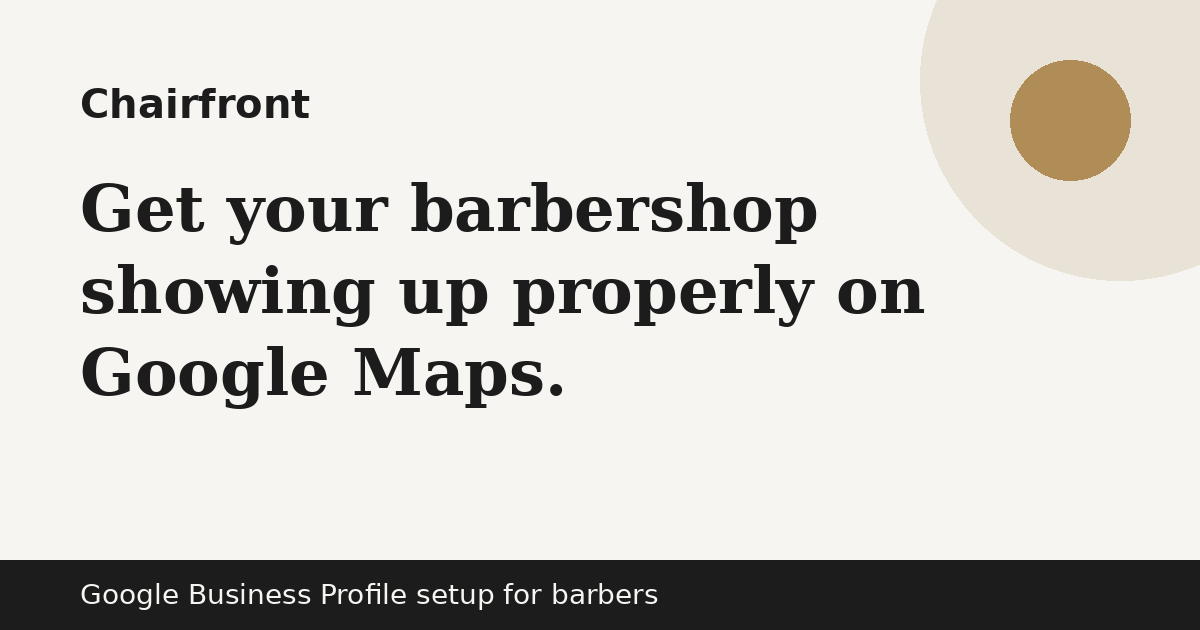
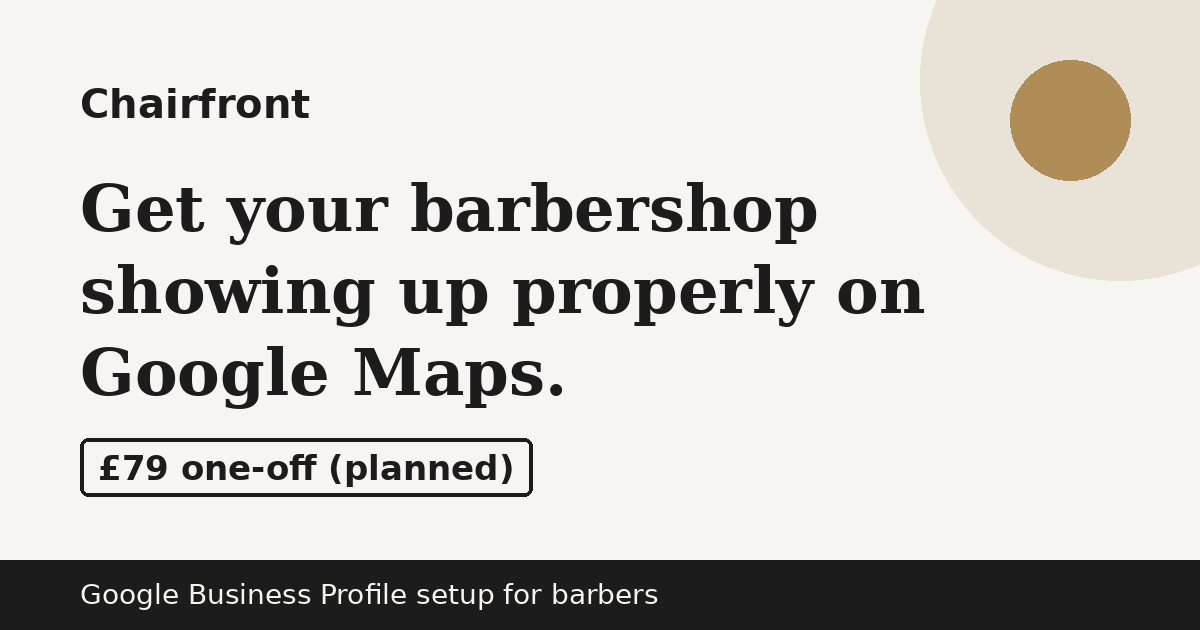
Publish site 2026-10-21 08:26 BST

Changed region(s): [[0.0617, 0.6937, 0.4625, 0.8143]]

diff --git a/index.html b/index.html
@@ -3,7 +3,7 @@
 <head>
 <meta charset="utf-8">
 <meta name="viewport" content="width=device-width, initial-scale=1">
-<meta http-equiv="Content-Security-Policy" content="default-src 'self'; img-src 'self' data: https://localreplyloop.goatcounter.com; style-src 'self'; script-src 'self'; font-src 'self'; connect-src 'self' https://formsubmit.co; form-action 'self'; base-uri 'self'; object-src 'none'">
+<meta http-equiv="Content-Security-Policy" content="default-src 'self'; img-src 'self' data: https://localreplyloop.goatcounter.com; style-src 'self'; script-src 'self'; font-src 'self'; connect-src 'self'; form-action 'self'; base-uri 'self'; object-src 'none'">
 <meta name="referrer" content="strict-origin-when-cross-origin">
 <title>Chairfront: Get your barbershop showing up properly on Google Maps</title>
 <meta name="description" content="A done-for-you Google Business Profile setup: categories, opening hours, services list, photos you supply, and a plain guide to asking customers for.">
@@ -21,21 +21,14 @@
 </head>
 <body>
 <a class="skip" href="#main">Skip to content</a>
-<header><div class="wrap top"><a class="brand" href="./"><svg viewBox="0 0 64 64" aria-hidden="true" width="34" height="34"><circle cx="32" cy="32" r="32" fill="#1C1C1C"/><text x="32" y="43" text-anchor="middle" font-family="Georgia, serif" font-weight="700" font-size="30" fill="#F7F5F2">C</text><circle cx="50" cy="50" r="6" fill="#B08D57"/></svg>Chairfront</a><nav aria-label="Primary"><a href="#how">How it works</a><a href="#faq">Questions</a><a href="#contact">Contact</a></nav></div></header><section class="hero"><div class="wrap"><div class="inner"><div><span class="draft">Draft: not yet available. Enquiries welcome.</span><br><span class="eyebrow">Service · draft offer · Google Business Profile setup for barbers</span><h1>Get your barbershop showing up properly on Google Maps.</h1><p class="lede">Chairfront sets up or tidies your Google Business Profile: the right categories, accurate hours, a services list with prices, and your photos. You keep full ownership of the profile.</p><div class="ctas"><a class="btn" href="#contact" data-cta="hero">Make an enquiry</a><a class="btn ghost" href="#faq" data-cta="hero-secondary">Questions</a></div></div><div class="art"><svg viewBox="0 0 400 400" role="img" aria-label="Decorative pattern" class="motif" preserveAspectRatio="xMidYMid slice"><rect x="0" y="160" width="30" height="200" rx="15" fill="#F7F5F2"/><rect x="46" y="160" width="30" height="260" rx="15" fill="#1C1C1C"/><rect x="92" y="100" width="30" height="220" rx="15" fill="#B08D57"/><rect x="138" y="70" width="30" height="200" rx="15" fill="#1C1C1C"/><rect x="184" y="40" width="30" height="200" rx="15" fill="#F7F5F2"/><rect x="230" y="100" width="30" height="260" rx="15" fill="#1C1C1C"/><rect x="276" y="70" width="30" height="220" rx="15" fill="#B08D57"/><rect x="322" y="130" width="30" height="260" rx="15" fill="#1C1C1C"/><rect x="368" y="70" width="30" height="220" rx="15" fill="#F7F5F2"/></svg></div></div></div></section>
+<header><div class="wrap top"><a class="brand" href="./"><svg viewBox="0 0 64 64" aria-hidden="true" width="34" height="34"><circle cx="32" cy="32" r="32" fill="#1C1C1C"/><text x="32" y="43" text-anchor="middle" font-family="Georgia, serif" font-weight="700" font-size="30" fill="#F7F5F2">C</text><circle cx="50" cy="50" r="6" fill="#B08D57"/></svg>Chairfront</a><nav aria-label="Primary"><a href="#how">How it works</a><a href="#faq">Questions</a><a href="#contact">Contact</a></nav></div></header>
 <main id="main">
+<section class="hero"><div class="wrap"><div class="inner"><div><span class="draft">Draft: not yet available. Enquiries welcome.</span><br><span class="eyebrow">Service · draft offer · Google Business Profile setup for barbers</span><h1>Get your barbershop showing up properly on Google Maps.</h1><p class="lede">Chairfront sets up or tidies your Google Business Profile: the right categories, accurate hours, a services list with prices, and your photos. You keep full ownership of the profile.</p><div class="ctas"><a class="btn" href="#contact" data-cta="hero">Make an enquiry</a><a class="btn ghost" href="#faq" data-cta="hero-secondary">Questions</a></div></div><figure class="art"><svg viewBox="0 0 400 400" aria-hidden="true" focusable="false" class="motif"><rect x="70" y="70" width="70" height="260" rx="35" fill="#1C1C1C"/><rect x="78" y="90" width="54" height="220" rx="27" fill="#F7F5F2"/><path d="M78 120 l54 -30 v16 l-54 30z" fill="#B08D57"/><path d="M78 170 l54 -30 v16 l-54 30z" fill="#B08D57"/><path d="M78 220 l54 -30 v16 l-54 30z" fill="#B08D57"/><path d="M78 270 l54 -30 v16 l-54 30z" fill="#B08D57"/><rect x="200" y="60" width="140" height="280" rx="22" fill="#1C1C1C"/><rect x="212" y="84" width="116" height="220" rx="8" fill="#F7F5F2"/><path d="M270 120 a30 30 0 0 1 30 30 c0 26 -30 60 -30 60 s-30 -34 -30 -60 a30 30 0 0 1 30 -30z" fill="#B08D57"/><circle cx="270" cy="150" r="11" fill="#F7F5F2"/></svg><figcaption class="fine">Illustrative</figcaption></figure></div></div></section>
 <section class="tint" id="how"><div class="wrap"><span class="eyebrow">How it works</span><h2>A done-for-you Google Business Profile setup: categories, opening hours, services list, photos you supply, and a plain guide to asking customers for reviews properly.</h2><div class="steps"><div class="step"><h3>Tell us about the shop</h3><p>Services, prices, hours and photos.</p></div><div class="step"><h3>We set it up with you</h3><p>You own the profile; we work with access you give us.</p></div><div class="step"><h3>Hand-over guide</h3><p>How to keep it current and ask for reviews fairly.</p></div></div></div></section>
 <section><div class="wrap"><span class="eyebrow">Who it is for</span><h2>For independent barbers and small barbershops.</h2><div class="points"><div class="point"><h3>You own it</h3><p>The profile stays in your Google account.</p></div><div class="point"><h3>No fake reviews</h3><p>We never post, buy or incentivise reviews.</p></div><div class="point"><h3>No ranking promises</h3><p>Nobody can guarantee a position on Google.</p></div></div></div></section>
 <section class="tint" id="price"><div class="wrap"><span class="eyebrow">Planned price</span><div class="pricebox"><p class="price">£79 one-off (planned)</p><p>This is a draft offer and is not taking orders yet. Nothing can be bought on this website.</p></div></div></section>
-<section id="faq"><div class="wrap"><span class="eyebrow">Questions</span><h2>Common questions</h2><details><summary>Is this available now?</summary><p>It&#x27;s a draft offer. Send an enquiry and we&#x27;ll reply about timing.</p></details><details><summary>Will I rank first?</summary><p>No one can promise that. We make the profile complete and accurate.</p></details><details><summary>Do you need my password?</summary><p>No. You add us as a manager and remove us when done.</p></details><p class="fine" style="margin-top:18px">Chairfront is not affiliated with Google. We make no promises about search rankings.</p></div></section>
-<section class="tint" id="contact"><div class="wrap contact-grid"><div><span class="eyebrow">Contact</span><h2>Make an enquiry</h2><p>Chairfront is new and run by one person. Every message is read and answered by email, usually within two working days.</p><p>Email: <a href="mailto:localreply+chairfront@agentmail.to">localreply+chairfront@agentmail.to</a></p></div><form class="form" data-contact data-formsubmit="localreply+chairfront@agentmail.to" data-email="localreply+chairfront@agentmail.to" data-subject="Chairfront enquiry" novalidate>
-<div><label for="f-name">Your name</label><input id="f-name" name="name" autocomplete="name" required></div>
-<div><label for="f-email">Email</label><input id="f-email" name="email" type="email" autocomplete="email" required></div>
-<div><label for="f-plan">About</label><select id="f-plan" name="plan"><option value="New profile">New profile</option><option value="Tidy an existing profile">Tidy an existing profile</option><option value="A question">A question</option></select></div>
-<div><label for="f-message">Message</label><textarea id="f-message" name="message"></textarea></div>
-<p class="hint">Your message goes to our inbox through FormSubmit (formsubmit.co), our form-delivery provider. If that fails, your own email app opens instead. See our <a href="privacy.html">privacy notice</a>.</p>
-<button class="btn" type="submit">Make an enquiry</button>
-<p class="form-status" role="status" aria-live="polite"></p>
-</form></div></section>
+<section id="faq"><div class="wrap"><span class="eyebrow">Questions</span><h2>Common questions</h2><details><summary>Is this available now?</summary><p>It&#x27;s a draft offer. Enquiries are received, but we can’t promise a reply or a timeframe yet.</p></details><details><summary>Will I rank first?</summary><p>No one can promise that. We make the profile complete and accurate.</p></details><details><summary>Do you need my password?</summary><p>No. You add us as a manager and remove us when done.</p></details><p class="fine" style="margin-top:18px">Chairfront is not affiliated with Google. We make no promises about search rankings.</p></div></section>
+<section class="tint" id="contact"><div class="wrap contact-grid"><div><span class="eyebrow">Contact</span><h2>Make an enquiry</h2><p>Chairfront is new and run by one person. Messages go to our inbox. We can’t promise a reply or a timeframe yet.</p><p>Email: <a href="mailto:localreply+chairfront@agentmail.to">localreply+chairfront@agentmail.to</a></p></div><div class="form contact-mail"><p><a class="btn" href="mailto:localreply+chairfront@agentmail.to?subject=%5BChairfront%5D%20Enquiry" data-cta="enquire">Email Chairfront</a></p><p class="hint">This opens your own email app. Nothing is sent through this website. See our <a href="privacy.html">privacy notice</a>.</p></div></div></section>
 </main><footer><div class="wrap"><p>Operated by a UK sole trader trading as Chairfront. Contact: localreply+chairfront@agentmail.to. Postal address available on written request.</p>
 <p><a href="privacy.html">Privacy</a><a href="terms.html">Terms</a><a href="./#contact">Contact</a></p>
 <p class="fine">Chairfront is not affiliated with Google. We make no promises about search rankings.</p></div></footer>

diff --git a/privacy.html b/privacy.html
@@ -3,7 +3,7 @@
 <head>
 <meta charset="utf-8">
 <meta name="viewport" content="width=device-width, initial-scale=1">
-<meta http-equiv="Content-Security-Policy" content="default-src 'self'; img-src 'self' data: https://localreplyloop.goatcounter.com; style-src 'self'; script-src 'self'; font-src 'self'; connect-src 'self' https://formsubmit.co; form-action 'self'; base-uri 'self'; object-src 'none'">
+<meta http-equiv="Content-Security-Policy" content="default-src 'self'; img-src 'self' data: https://localreplyloop.goatcounter.com; style-src 'self'; script-src 'self'; font-src 'self'; connect-src 'self'; form-action 'self'; base-uri 'self'; object-src 'none'">
 <meta name="referrer" content="strict-origin-when-cross-origin">
 <title>Privacy notice | Chairfront</title>
 <meta name="description" content="Privacy notice for Chairfront.">
@@ -21,13 +21,13 @@
 </head>
 <body>
 <a class="skip" href="#main">Skip to content</a>
-<header><div class="wrap top"><a class="brand" href="./"><svg viewBox="0 0 64 64" aria-hidden="true" width="34" height="34"><circle cx="32" cy="32" r="32" fill="#1C1C1C"/><text x="32" y="43" text-anchor="middle" font-family="Georgia, serif" font-weight="700" font-size="30" fill="#F7F5F2">C</text><circle cx="50" cy="50" r="6" fill="#B08D57"/></svg>Chairfront</a><nav aria-label="Primary"><a href="#how">How it works</a><a href="#faq">Questions</a><a href="#contact">Contact</a></nav></div></header><main id="main"><section><div class="wrap legal"><h1>Privacy notice</h1><p class="fine">Last updated 19 October 2026</p>
+<header><div class="wrap top"><a class="brand" href="./"><svg viewBox="0 0 64 64" aria-hidden="true" width="34" height="34"><circle cx="32" cy="32" r="32" fill="#1C1C1C"/><text x="32" y="43" text-anchor="middle" font-family="Georgia, serif" font-weight="700" font-size="30" fill="#F7F5F2">C</text><circle cx="50" cy="50" r="6" fill="#B08D57"/></svg>Chairfront</a><nav aria-label="Primary"><a href="#how">How it works</a><a href="#faq">Questions</a><a href="#contact">Contact</a></nav></div></header><main id="main"><section><div class="wrap legal"><h1>Privacy notice</h1><p class="fine">Last updated 20 October 2026</p>
 <p><span>Operated by a UK sole trader trading as Chairfront. Contact: localreply+chairfront@agentmail.to. Postal address available on written request.</span> We are the controller for the personal data described here. For anything in this notice, email <a href="mailto:localreply+chairfront@agentmail.to">localreply+chairfront@agentmail.to</a> with “Chairfront” in the subject line.</p>
-<h2>What we collect</h2><p>If you use the form or email us, we receive your name, email address, anything you write in your message and, if you give it, your postcode or town. We use it only to reply to you and, if you ask for it, to deal with your enquiry.</p>
+<h2>What we collect</h2><p>If you email us, we receive your name, email address, anything you write in your message and, if you give it, your postcode or town. We use it only to reply to you and, if you ask for it, to deal with your enquiry.</p>
 <h2>Lawful basis</h2><p>Replying to an enquiry you send us is in our legitimate interests, or steps taken at your request before any agreement (UK GDPR Article 6(1)(f) and 6(1)(b)).</p>
-<h2>Who processes it for us</h2><p>FormSubmit (formsubmit.co) delivers form messages to our inbox. AgentMail (agentmail.to) hosts the inbox. GitHub Pages hosts this website and may log technical data such as IP addresses for security. Some of these providers process data outside the UK under their own safeguards.</p>
+<h2>Who processes it for us</h2><p>AgentMail (agentmail.to) hosts our inbox. GitHub Pages hosts this website and may log technical data such as IP addresses for security. Some of these providers process data outside the UK under their own safeguards.</p>
 <h2>Cookies and analytics</h2><p>We set no cookies. We count page views with GoatCounter, which records the page, referrer and screen size but no cookies and no personal profile. It does not run if your browser sends Do Not Track or Global Privacy Control.</p>
-<h2>How long we keep it</h2><p>We keep enquiry emails for up to 12 months after our last contact, unless you become a customer, in which case we keep records as the law requires.</p>
+<h2>How long we keep it</h2><p>We delete enquiry and order data 30 days after our last contact or after delivery. We keep only the basic order record that tax law requires.</p>
 <h2>Your rights</h2><p>You can ask for a copy of your data, ask us to correct or delete it, or object to how we use it, by emailing <a href="mailto:localreply+chairfront@agentmail.to">localreply+chairfront@agentmail.to</a>. You can complain to the Information Commissioner's Office (ico.org.uk).</p></div></section></main><footer><div class="wrap"><p>Operated by a UK sole trader trading as Chairfront. Contact: localreply+chairfront@agentmail.to. Postal address available on written request.</p>
 <p><a href="privacy.html">Privacy</a><a href="terms.html">Terms</a><a href="./#contact">Contact</a></p>
 <p class="fine">Chairfront is not affiliated with Google. We make no promises about search rankings.</p></div></footer>

diff --git a/assets/site.css b/assets/site.css
@@ -1,6 +1,6 @@
 @font-face{font-family:'Source Serif 4';font-weight:600;font-style:normal;font-display:swap;src:url(fonts/source-serif-4-latin-600-normal.woff2) format('woff2')}
 @font-face{font-family:'Source Serif 4';font-weight:700;font-style:normal;font-display:swap;src:url(fonts/source-serif-4-latin-700-normal.woff2) format('woff2')}
-:root{--ink:#1C1C1C;--paper:#F7F5F2;--acc:#B08D57;--acc-text:#81663C;--on-acc:#1C1C1C;--soft:#E9E2D6;--on-ink:#F7F5F2;--r:4px;--br:999px;--head:'Source Serif 4', Georgia, serif;--body:Georgia, serif}
+:root{--ink:#1C1C1C;--paper:#F7F5F2;--acc:#B08D57;--acc-text:#6A5532;--on-acc:#1C1C1C;--acc-btn:#B08D57;--soft:#E9E2D6;--on-ink:#F7F5F2;--r:4px;--br:999px;--head:'Source Serif 4', Georgia, serif;--body:Georgia, serif}
 *,*::before,*::after{box-sizing:border-box}html{scroll-behavior:smooth}@media (prefers-reduced-motion:reduce){html{scroll-behavior:auto}*{transition:none!important}}
 body{margin:0;font-family:var(--body);color:var(--ink);background:var(--paper);line-height:1.6;font-size:17px;-webkit-font-smoothing:antialiased}
 h1,h2,h3{font-family:var(--head);line-height:1.15;margin:0 0 .5em;letter-spacing:-.01em}h1{font-size:clamp(2.1rem,5vw,3.6rem)}h2{font-size:clamp(1.5rem,3vw,2.2rem)}h3{font-size:1.15rem}
@@ -9,11 +9,11 @@ p{margin:0 0 1em}a{color:var(--ink);text-decoration-color:var(--acc);text-underl
 :focus-visible{outline:3px solid var(--acc);outline-offset:2px}
 .top{display:flex;align-items:center;justify-content:space-between;padding:18px 0;gap:16px}.brand{display:flex;align-items:center;gap:10px;font-family:var(--head);font-weight:700;font-size:1.25rem;text-decoration:none}
 .top nav a{margin-left:18px;font-size:.95rem;text-decoration:none}.top nav a:hover{text-decoration:underline}
-.btn{display:inline-block;background:var(--acc);color:var(--on-acc);padding:13px 22px;border-radius:var(--br);font-weight:600;text-decoration:none;border:2px solid var(--acc);cursor:pointer;font:inherit;font-weight:600}
-.btn:hover{filter:brightness(.94)}.btn.ghost{background:transparent;color:var(--ink);border-color:var(--ink)}
+.btn{display:inline-block;background:var(--acc-btn);color:var(--on-acc);padding:13px 22px;border-radius:var(--br);font-weight:600;text-decoration:none;border:2px solid var(--acc-btn);cursor:pointer;font:inherit;font-weight:600}
+.btn:hover{filter:none;box-shadow:inset 0 0 0 2px currentColor}.btn.ghost{background:transparent;color:var(--ink);border-color:var(--ink)}
 .eyebrow{display:inline-block;font-size:.8rem;letter-spacing:.12em;text-transform:uppercase;font-weight:600;color:var(--acc-text);margin-bottom:12px}
 .hero{padding:48px 0 64px}.hero .lede{font-size:1.15rem;max-width:40em}.ctas{display:flex;gap:12px;flex-wrap:wrap;margin-top:22px}
-.motif{width:100%;height:auto;max-width:420px;display:block}
+.motif{width:100%;height:auto;max-width:420px;display:block}.art{margin:0}
 .draft{display:inline-block;background:var(--soft);border:1px dashed var(--ink);padding:3px 10px;border-radius:999px;font-size:.82rem;font-weight:600;margin-bottom:14px}
 section{padding:56px 0}.tint{background:var(--soft)}
 .steps{display:grid;grid-template-columns:repeat(auto-fit,minmax(220px,1fr));gap:22px;counter-reset:s}
@@ -24,8 +24,8 @@ section{padding:56px 0}.tint{background:var(--soft)}
 details{border-bottom:1px solid color-mix(in srgb,var(--ink) 18%,transparent);padding:14px 0}summary{cursor:pointer;font-weight:600}details p{margin-top:10px}
 .form{display:grid;gap:14px;max-width:620px}.form label{font-weight:600;font-size:.95rem;display:block;margin-bottom:4px}
 .form input,.form textarea,.form select{width:100%;padding:12px;border:1.5px solid color-mix(in srgb,var(--ink) 40%,transparent);border-radius:calc(var(--r)/2);font:inherit;background:#fff;color:#111}
-.form textarea{min-height:120px}.hint,.fine{font-size:.88rem;opacity:.85}.form-status{font-weight:600}
-.contact-grid{display:grid;grid-template-columns:1fr 1.2fr;gap:40px}@media(max-width:800px){.contact-grid{grid-template-columns:1fr}.top nav{display:none}}
+.form textarea{min-height:120px}.hint,.fine{font-size:.88rem}.form-status{font-weight:600}
+.contact-grid{display:grid;grid-template-columns:1fr 1.2fr;gap:40px}@media(max-width:800px){.contact-grid{grid-template-columns:1fr}.top nav a:not([href="#contact"]){display:none}.top nav a{margin-left:0;padding:10px 0;font-weight:600}}
 footer{padding:36px 0 48px;font-size:.9rem;border-top:1px solid color-mix(in srgb,var(--ink) 15%,transparent)}footer a{margin-right:14px}
 .tool{background:var(--paper);border:2px solid var(--ink);border-radius:var(--r);padding:26px;max-width:640px}.tool .row{display:grid;grid-template-columns:1fr 140px;gap:12px;align-items:center;margin-bottom:10px}
 .tool input[type=number]{padding:10px;border:1.5px solid var(--ink);border-radius:8px;font:inherit;width:100%}.result{margin-top:16px;padding:16px;background:var(--soft);border-radius:calc(var(--r)/2);min-height:3em}

diff --git a/_shared/kit.js b/_shared/kit.js
@@ -69,24 +69,8 @@
     form.addEventListener("submit", function (e) {
       e.preventDefault();
       if (!form.reportValidity()) return;
-      // 2026-10-14: if data-formsubmit is set, deliver via FormSubmit.co straight to the brand inbox; mailto stays as fallback.
-      var fsTok = form.getAttribute("data-formsubmit");
-      if (fsTok && !form.__fsFallback && window.fetch) {
-        var fd = new FormData(form), payload = {}, st = form.querySelector("[role=status]");
-        fd.forEach(function (v, k) { if (k !== "consent") payload[k] = String(v); });
-        payload._subject = (form.getAttribute("data-subject") || "Enquiry") + (payload.business ? " — " + payload.business : "");
-        if (payload.email) payload._replyto = payload.email;
-        payload._captcha = "false"; payload._template = "table";
-        fetch("https://formsubmit.co/ajax/" + fsTok, { method: "POST", headers: { "Content-Type": "application/json", "Accept": "application/json" }, body: JSON.stringify(payload) })
-          .then(function (r) { return r.json(); })
-          .then(function (j) {
-            if (String(j.success) !== "true") throw new Error("fs");
-            if (st) { st.textContent = "Thanks" + (payload.name ? ", " + payload.name.trim().split(" ")[0] : "") + " — your message has been sent. We reply by email."; st.classList.add("is-visible"); }
-            track("contact_sent", { plan: payload.plan || null }); form.reset();
-          })
-          .catch(function () { form.__fsFallback = true; if (st) { st.textContent = "Sending didn't work — opening your email app instead."; st.classList.add("is-visible"); } form.requestSubmit ? form.requestSubmit() : form.dispatchEvent(new Event("submit", { cancelable: true })); });
-        return;
-      }
+      // The form only composes an email
+      // in the visitor's own mail app; nothing is sent through any third-party form processor.
       var to = form.getAttribute("data-email") || cfg.contactEmail;
       var data = new FormData(form);
       var name = (data.get("name") || "").toString().trim();

diff --git a/_shared/kit.css b/_shared/kit.css
@@ -73,6 +73,7 @@ p { margin: 0; }
 .mobile-nav.is-open { display: block; }
 .mobile-nav a { display: flex; align-items: center; min-height: 52px; padding: 0 1.25rem; color: var(--text); text-decoration: none; font-weight: 500; border-bottom: 1px solid var(--line); }
 .mobile-nav .btn { margin: 1rem 1.25rem 1.25rem; display: flex; }
+.mobile-nav .btn--primary, .mobile-nav .btn--primary:hover { color: #fff; }
 @media (min-width: 60rem) {
   .nav { display: flex; }
   .site-header .header-cta { display: inline-flex; margin-left: .75rem; }
@@ -329,3 +330,8 @@ html[data-paused="true"] [data-cta="checkout"] { pointer-events: none; opacity: 
 @media (min-width: 60rem) { .pricing.pricing--single { grid-template-columns: 1fr; } }
 .tier-more { max-width: 64rem; margin: 1.25rem auto 0; text-align: center; color: var(--muted); font-size: .9375rem; line-height: 1.6; }
 .tier-more a { font-weight: 600; white-space: nowrap; }
+
+.site-header .header-link { display: inline-flex; color: var(--ink); font-weight: 600; text-decoration: underline; text-underline-offset: .2em; min-height: 44px; align-items: center; padding: 0 .25rem; }
+@media (max-width: 59.99rem) { .site-header .header-link { display: none; } }
+.btn-row .text-link { display: inline-flex; align-items: center; min-height: 48px; padding: 0 .25rem; color: var(--ink); font-weight: 600; text-decoration: underline; text-underline-offset: .2em; }
+.btn-row .text-link:hover, .site-header .header-link:hover { color: var(--accent-strong); }

diff --git a/404.html b/404.html
@@ -3,7 +3,7 @@
 <head>
 <meta charset="utf-8">
 <meta name="viewport" content="width=device-width, initial-scale=1">
-<meta http-equiv="Content-Security-Policy" content="default-src 'self'; img-src 'self' data: https://localreplyloop.goatcounter.com; style-src 'self'; script-src 'self'; font-src 'self'; connect-src 'self' https://formsubmit.co; form-action 'self'; base-uri 'self'; object-src 'none'">
+<meta http-equiv="Content-Security-Policy" content="default-src 'self'; img-src 'self' data: https://localreplyloop.goatcounter.com; style-src 'self'; script-src 'self'; font-src 'self'; connect-src 'self'; form-action 'self'; base-uri 'self'; object-src 'none'">
 <meta name="referrer" content="strict-origin-when-cross-origin">
 <title>Page not found | Chairfront</title>
 <meta name="description" content="Page not found for Chairfront.">

diff --git a/terms.html b/terms.html
@@ -3,7 +3,7 @@
 <head>
 <meta charset="utf-8">
 <meta name="viewport" content="width=device-width, initial-scale=1">
-<meta http-equiv="Content-Security-Policy" content="default-src 'self'; img-src 'self' data: https://localreplyloop.goatcounter.com; style-src 'self'; script-src 'self'; font-src 'self'; connect-src 'self' https://formsubmit.co; form-action 'self'; base-uri 'self'; object-src 'none'">
+<meta http-equiv="Content-Security-Policy" content="default-src 'self'; img-src 'self' data: https://localreplyloop.goatcounter.com; style-src 'self'; script-src 'self'; font-src 'self'; connect-src 'self'; form-action 'self'; base-uri 'self'; object-src 'none'">
 <meta name="referrer" content="strict-origin-when-cross-origin">
 <title>Terms of use | Chairfront</title>
 <meta name="description" content="Terms of use for Chairfront.">
